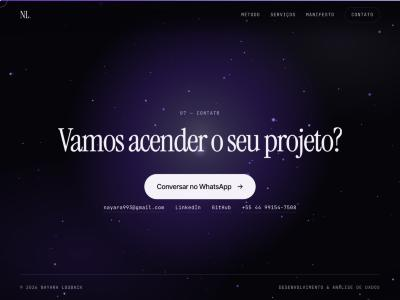
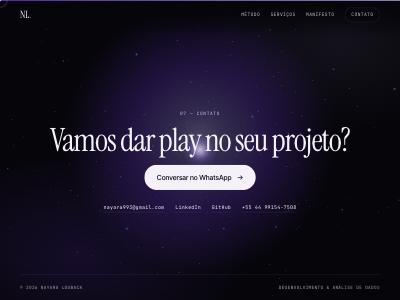
fix: ordem dos gatilhos, boot não bloqueante, foco/aria e frase do contato

diff --git a/index.html b/index.html
@@ -18,7 +18,7 @@
   </script>
 </head>
 <body>
-  <a class="skip" href="#metodo">Pular para o conteúdo</a>
+  <a class="skip" href="#main">Pular para o conteúdo</a>
 
   <canvas id="stage" aria-hidden="true"></canvas>
   <div class="fx fx-fog" aria-hidden="true"></div>
@@ -38,7 +38,7 @@
     </nav>
   </header>
 
-  <main>
+  <main id="main" tabindex="-1">
     <!-- 1. VAZIO -->
     <section id="vazio" class="ch ch--hero">
       <p class="label" data-depth="0.05">Nayara Louback — Desenvolvimento &amp; Análise de Dados</p>
@@ -83,10 +83,10 @@
         </div>
         <div class="method__viewport">
           <ol class="method__track" data-allow-overflow>
-            <li class="step"><span class="step__num" aria-hidden="true" data-depth="0.2">01</span><h3>Descoberta</h3><p>Entendo o negócio, o público e a pergunta que os dados precisam responder.</p></li>
-            <li class="step"><span class="step__num" aria-hidden="true" data-depth="0.2">02</span><h3>Direção</h3><p>Defino identidade, narrativa e estrutura antes de escrever a primeira linha.</p></li>
-            <li class="step"><span class="step__num" aria-hidden="true" data-depth="0.2">03</span><h3>Construção</h3><p>Desenvolvo com código limpo, performance e animação com propósito.</p></li>
-            <li class="step"><span class="step__num" aria-hidden="true" data-depth="0.2">04</span><h3>Lançamento</h3><p>Publico, meço e ajusto com base no que os dados mostram.</p></li>
+            <li class="step"><span class="step__num" aria-hidden="true">01</span><h3>Descoberta</h3><p>Entendo o negócio, o público e a pergunta que os dados precisam responder.</p></li>
+            <li class="step"><span class="step__num" aria-hidden="true">02</span><h3>Direção</h3><p>Defino identidade, narrativa e estrutura antes de escrever a primeira linha.</p></li>
+            <li class="step"><span class="step__num" aria-hidden="true">03</span><h3>Construção</h3><p>Desenvolvo com código limpo, performance e animação com propósito.</p></li>
+            <li class="step"><span class="step__num" aria-hidden="true">04</span><h3>Lançamento</h3><p>Publico, meço e ajusto com base no que os dados mostram.</p></li>
           </ol>
         </div>
         <div class="method__bar" aria-hidden="true"><i></i></div>
@@ -118,7 +118,7 @@
       <div class="orb" aria-hidden="true" data-allow-overflow></div>
       <div class="contact__copy">
         <p class="label">07 — Contato</p>
-        <h2 class="display display--md" id="contato-t" data-reveal="lines">Vamos acender o seu projeto?</h2>
+        <h2 class="display display--md" id="contato-t" data-reveal="lines">Vamos dar play no seu projeto?</h2>
         <a class="btn" href="https://wa.me/5544991547508" target="_blank" rel="noopener noreferrer">Conversar no WhatsApp <span>→</span></a>
         <ul class="links">
           <li><a href="mailto:nayara993@gmail.com">nayara993@gmail.com</a></li>

diff --git a/js/text.js b/js/text.js
@@ -1,14 +1,21 @@
 // Reveals de texto: linhas com máscara e palavras acendendo com o scroll.
-import { reduced } from './scroll.js';
+import { reduced, sortTriggers } from './scroll.js';
 
 const triggers = [];
+
+// Os spans visuais ficam em aria-hidden; o texto lido por leitores de tela vai num span .sr-only.
+function addScreenReaderText(el, text) {
+  const sr = document.createElement('span');
+  sr.className = 'sr-only';
+  sr.textContent = text;
+  el.appendChild(sr);
+}
 
 export function splitWords(el) {
   const text = el.dataset.orig ?? el.textContent.trim();
   el.dataset.orig = text;
-  el.setAttribute('aria-label', text);
   el.innerHTML = '';
-  return text.split(/\s+/).map((word, i, arr) => {
+  const words = text.split(/\s+/).map((word, i, arr) => {
     const span = document.createElement('span');
     span.className = 'w';
     span.setAttribute('aria-hidden', 'true');
@@ -16,6 +23,8 @@ export function splitWords(el) {
     el.appendChild(span);
     return span;
   });
+  addScreenReaderText(el, text);
+  return words;
 }
 
 export function splitLines(el) {
@@ -30,7 +39,7 @@ export function splitLines(el) {
     lines[lines.length - 1].push(w.textContent);
   });
   el.innerHTML = '';
-  return lines.map((parts) => {
+  const lineEls = lines.map((parts) => {
     const mask = document.createElement('span');
     mask.className = 'line-mask';
     mask.setAttribute('aria-hidden', 'true');
@@ -41,6 +50,8 @@ export function splitLines(el) {
     el.appendChild(mask);
     return line;
   });
+  addScreenReaderText(el, el.dataset.orig);
+  return lineEls;
 }
 
 function build() {
@@ -87,9 +98,22 @@ export async function initTextReveals() {
     html.classList.remove('pre');
     return;
   }
-  await Promise.race([document.fonts.ready, new Promise((r) => setTimeout(r, 2500))]);
+  let timedOut = false;
+  await Promise.race([
+    document.fonts.ready,
+    new Promise((r) => setTimeout(() => { timedOut = true; r(); }, 2500)),
+  ]);
   build();
   html.classList.remove('pre');
+
+  const rebuild = () => {
+    build();
+    sortTriggers();
+    ScrollTrigger.refresh();
+  };
+
+  // Fonte lenta: as linhas foram medidas com a fonte reserva; refaz quando a web font chegar.
+  if (timedOut) document.fonts.addEventListener('loadingdone', () => rebuild(), { once: true });
 
   let timer;
   let lastWidth = innerWidth;
@@ -98,10 +122,9 @@ export async function initTextReveals() {
     timer = setTimeout(() => {
       if (innerWidth === lastWidth) return; // ignora barras do navegador móvel
       lastWidth = innerWidth;
-      build();
-      ScrollTrigger.refresh();
+      rebuild();
       // O primeiro refresh pode medir pins antes do layout assentar; o segundo fecha a conta.
-      setTimeout(() => ScrollTrigger.refresh(), 300);
+      setTimeout(() => { sortTriggers(); ScrollTrigger.refresh(); }, 300);
     }, 200);
   });
 }

diff --git a/js/main.js b/js/main.js
@@ -1,22 +1,13 @@
 // Entrada: inicializa os módulos na ordem certa.
-import { initScroll, initParallax, initCursor, initHoverFx, reduced } from './scroll.js';
+import { initScroll, initParallax, initCursor, initHoverFx, sortTriggers, reduced } from './scroll.js';
 import { initTextReveals } from './text.js';
 import { initChapters } from './chapters.js';
 
-async function boot() {
-  const root = document.documentElement;
-  // Pins mudam a altura da página; restaurar scroll antigo cairia em posição errada.
-  if ('scrollRestoration' in history) history.scrollRestoration = 'manual';
-  if (!location.hash) window.scrollTo(0, 0);
-  if (!window.gsap || !window.ScrollTrigger) {
-    root.classList.remove('pre');
-    return;
-  }
-  initScroll();
-  initCursor();
-  initHoverFx();
+let scene = null;
+let lastProgress = 0;
 
-  let scene = null;
+// Three.js é pesado: carrega em segundo plano para não atrasar texto, pins e scroll.
+async function loadScene(root) {
   try {
     const { initScene } = await import('./scene.js');
     scene = initScene(document.getElementById('stage'), { still: reduced });
@@ -24,12 +15,44 @@ async function boot() {
     console.warn('WebGL indisponível, usando fallback.', e);
   }
   if (!scene) root.classList.add('no-webgl');
-  window.addEventListener('lumen:progress', (e) => scene?.setProgress(e.detail));
+  else scene.setProgress(lastProgress);
+}
+
+function goToHash(lenis) {
+  if (!location.hash) return;
+  let target = null;
+  try { target = document.querySelector(location.hash); } catch (e) { /* hash inválido */ }
+  if (!target) return;
+  if (lenis) lenis.scrollTo(target, { immediate: true });
+  else target.scrollIntoView();
+}
+
+async function boot() {
+  const root = document.documentElement;
+  // Pins mudam a altura da página; restaurar scroll antigo cairia em posição errada.
+  if ('scrollRestoration' in history) history.scrollRestoration = 'manual';
+  if (!location.hash) window.scrollTo(0, 0);
+
+  if (!window.gsap || !window.ScrollTrigger) {
+    root.classList.remove('pre');
+    return;
+  }
+  const { lenis } = initScroll();
+  initCursor();
+  initHoverFx();
+
+  window.addEventListener('lumen:progress', (e) => {
+    lastProgress = e.detail;
+    scene?.setProgress(lastProgress);
+  });
+  loadScene(root);
 
   await initTextReveals();
   initParallax();
-  initChapters({ scene });
+  initChapters({ getScene: () => scene });
+  sortTriggers();
   ScrollTrigger.refresh();
+  goToHash(lenis);
 
   document.addEventListener('visibilitychange', () => {
     if (!document.hidden) ScrollTrigger.update();

diff --git a/css/main.css b/css/main.css
@@ -31,6 +31,8 @@ h1, h2, h3, p, ul, ol { margin: 0; padding: 0; }
 ul, ol { list-style: none; }
 a { color: inherit; text-decoration: none; }
 :focus-visible { outline: 2px solid var(--lavender); outline-offset: 4px; border-radius: 4px; }
+[tabindex="-1"]:focus { outline: none; }
+.sr-only { position: absolute; width: 1px; height: 1px; margin: -1px; padding: 0; overflow: hidden; clip-path: inset(50%); white-space: nowrap; border: 0; }
 
 .skip { position: fixed; left: 12px; top: -60px; z-index: 200; background: var(--paper); color: var(--ink); padding: 10px 16px; border-radius: 8px; transition: top .2s; }
 .skip:focus { top: 12px; }
@@ -150,7 +152,7 @@ html.pre [data-reveal] { visibility: hidden; }
 .ch--contact { min-height: 100svh; display: flex; flex-direction: column; justify-content: space-between; overflow: clip; padding-top: 120px; }
 .orb { position: absolute; left: 50%; top: 46%; width: min(120vw, 96vh); aspect-ratio: 1; margin: calc(min(120vw, 96vh) / -2) 0 0 calc(min(120vw, 96vh) / -2); border-radius: 50%; background: radial-gradient(circle, rgba(196, 181, 253, 0.5) 0, rgba(168, 139, 250, 0.4) 12%, rgba(124, 58, 237, 0.34) 34%, transparent 66%); filter: blur(10px); opacity: 0.7; transform: scale(0.2); will-change: transform; }
 .contact__copy { position: relative; display: grid; justify-items: center; text-align: center; gap: clamp(20px, 3vh, 34px); margin: auto; padding-block: 40px; }
-.btn { display: inline-flex; align-items: center; gap: 14px; padding: 1.15rem 2rem; border-radius: 999px; background: var(--paper); color: var(--ink); font-weight: 500; transition: background .3s, transform .4s var(--ease); will-change: transform; }
+.btn { display: inline-flex; align-items: center; gap: 14px; padding: 1.15rem 2rem; border-radius: 999px; background: var(--paper); color: var(--ink); font-weight: 500; transition: background .3s; will-change: transform; }
 .btn:hover { background: var(--lavender); }
 .btn span { transition: transform .3s var(--ease); }
 .btn:hover span { transform: translateX(5px); }

diff --git a/js/scroll.js b/js/scroll.js
@@ -22,17 +22,43 @@ export function initScroll() {
     },
   });
 
+  const focusTarget = (el) => {
+    if (!el.hasAttribute('tabindex')) el.setAttribute('tabindex', '-1');
+    el.focus({ preventScroll: true });
+  };
   document.querySelectorAll('a[href^="#"]').forEach((a) => {
     a.addEventListener('click', (e) => {
       const target = document.querySelector(a.getAttribute('href'));
       if (!target) return;
       e.preventDefault();
-      if (lenis) lenis.scrollTo(target, { duration: 1.8, easing: (t) => 1 - Math.pow(1 - t, 4) });
-      else target.scrollIntoView();
+      if (lenis) {
+        lenis.scrollTo(target, { duration: 1.8, easing: (t) => 1 - Math.pow(1 - t, 4), onComplete: () => focusTarget(target) });
+      } else {
+        target.scrollIntoView();
+        focusTarget(target);
+      }
     });
   });
 
   return { lenis };
+}
+
+// O ScrollTrigger calcula os gatilhos na ordem de criação: os que ficam depois de um pin precisam
+// ser calculados depois dele. Ordena pela posição no documento e fixa a prioridade de refresh.
+export function sortTriggers() {
+  const all = ScrollTrigger.getAll().slice();
+  all.sort((a, b) => {
+    const ta = a.trigger, tb = b.trigger;
+    if (ta === tb) return 0;
+    if (!ta) return -1;
+    if (!tb) return 1;
+    const pos = ta.compareDocumentPosition(tb);
+    if (pos & Node.DOCUMENT_POSITION_FOLLOWING) return -1;
+    if (pos & Node.DOCUMENT_POSITION_PRECEDING) return 1;
+    return 0;
+  });
+  all.forEach((st, i) => { st.vars.refreshPriority = all.length - i; });
+  ScrollTrigger.sort();
 }
 
 export function initParallax() {

diff --git a/js/chapters.js b/js/chapters.js
@@ -1,11 +1,11 @@
 // Animações por capítulo, todas ligadas ao scroll.
 import { reduced } from './scroll.js';
 
-export function initChapters({ scene }) {
+export function initChapters({ getScene }) {
   if (reduced) return;
   initVazio();
   initRuido();
-  initFaisca(scene);
+  initFaisca(getScene);
   initMetodo();
   initServicos();
   initContato();
@@ -32,8 +32,9 @@ function initRuido() {
   tl.fromTo('#ruido .noise__copy', { opacity: 1 }, { opacity: 0.0, ease: 'power1.in', duration: 0.25 }, 0.95);
 }
 
-function initFaisca(scene) {
+function initFaisca(getScene) {
   const proxy = { b: 0 };
+  const scene = { setBurst: (b) => getScene()?.setBurst(b) };
   const tl = gsap.timeline({
     scrollTrigger: { trigger: '#faisca', start: 'top top', end: '+=110%', pin: true, scrub: 0.6 },
   });
@@ -87,8 +88,8 @@ function initContato() {
     scale: 1, ease: 'none',
     scrollTrigger: { trigger: '#contato', start: 'top 85%', end: 'top 10%', scrub: true },
   });
-  gsap.from('.contact__copy .btn, .links li, .foot', {
-    opacity: 0, y: 24, duration: 1, ease: 'expo.out', stagger: 0.08,
-    scrollTrigger: { trigger: '.contact__copy', start: 'top 65%', once: true },
-  });
+  const reveal = { trigger: '.contact__copy', start: 'top 65%', once: true };
+  // O botão usa scale (não y): o efeito magnético já anima x/y nele.
+  gsap.from('.contact__copy .btn', { opacity: 0, scale: 0.9, duration: 1, ease: 'expo.out', scrollTrigger: reveal });
+  gsap.from('.links li, .foot', { opacity: 0, y: 24, duration: 1, ease: 'expo.out', stagger: 0.08, scrollTrigger: reveal });
 }
